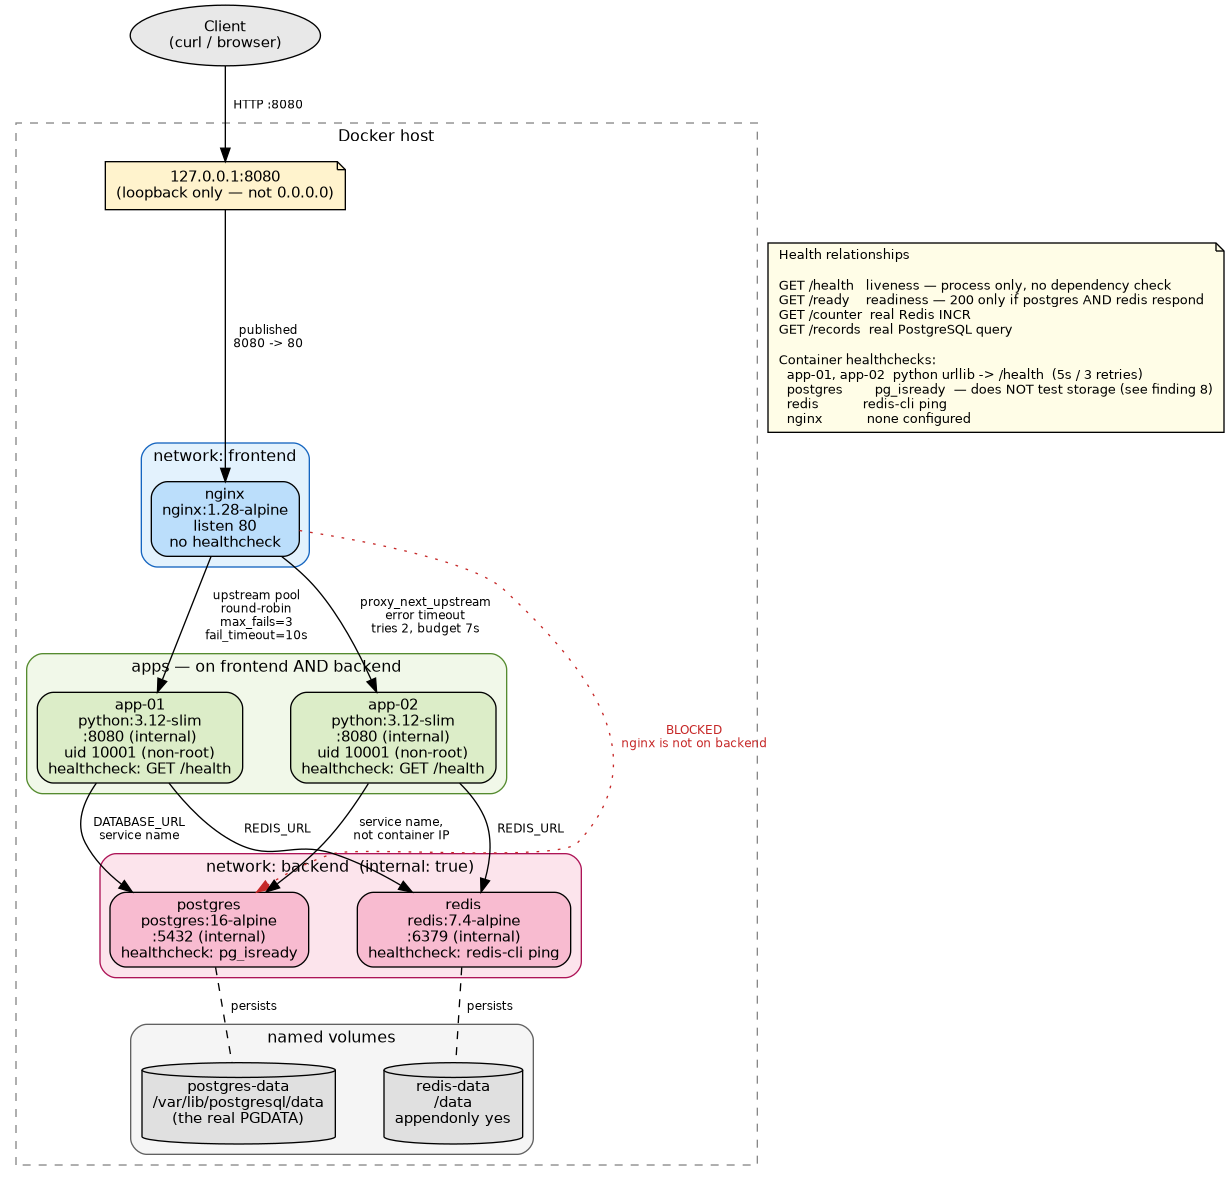
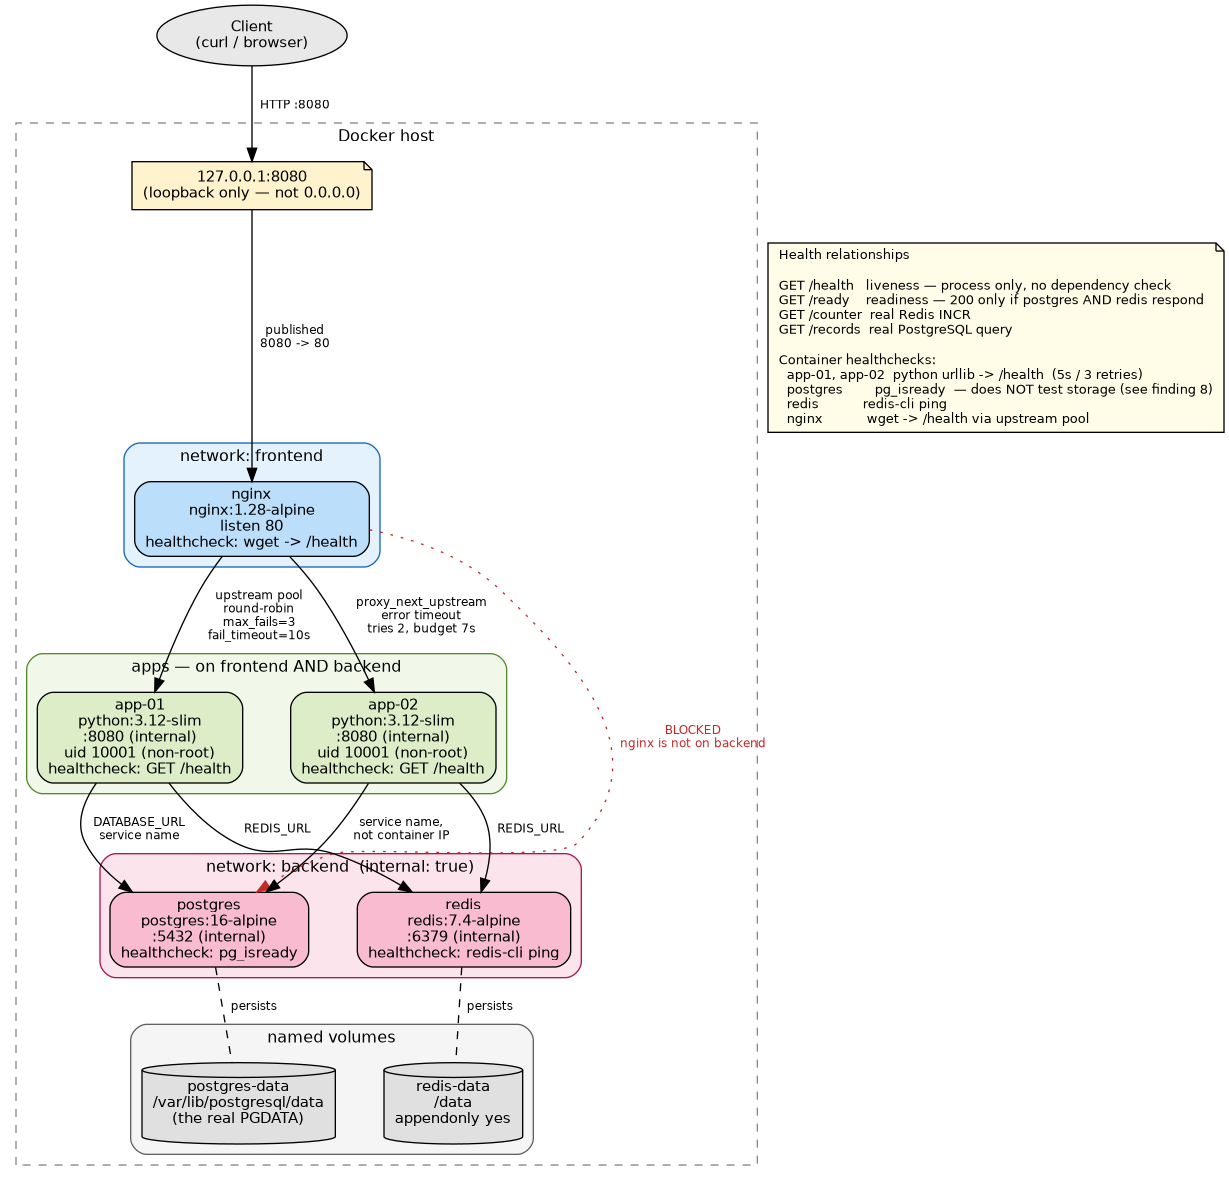
docs: update diagram and README for nginx healthcheck (part 4)

diff --git a/README.md b/README.md
@@ -411,8 +411,10 @@ up and crawls. Availability and usability are not the same measurement.
 ## Q6. Which single points of failure remain? How would you fix them in production?
 
 **NGINX itself.** One instance, one container, no redundancy. If it stops,
-everything is unreachable regardless of how many app instances are running. It
-also has no healthcheck configured, so Docker has no signal about its state.
+everything is unreachable regardless of how many app instances are running. It now has a
+healthcheck requesting `/health` through the upstream pool, so Docker reports
+its state, but a healthcheck only reports a problem; it does not provide a
+second instance to fail over to.
 *Production:* multiple NGINX instances behind a load balancer or a managed
 ingress, in different availability zones.
 
